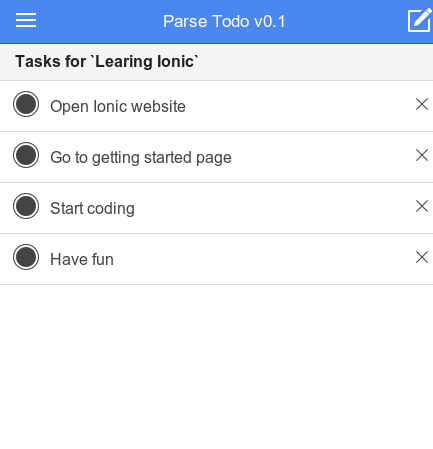
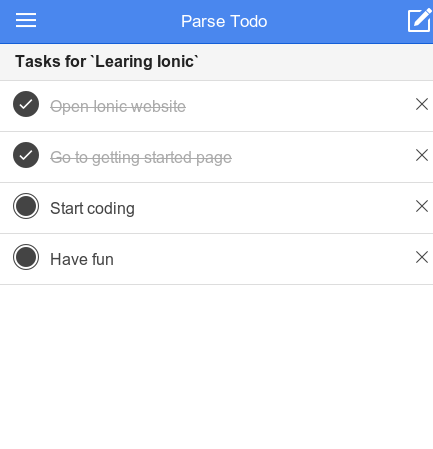
Edit screenshots

diff --git a/www/index.html b/www/index.html
@@ -33,7 +33,7 @@
       <button class="button button-icon ion-navicon" ng-click="toggleProjects()"></button>
       <!-- <button class="button button-icon" ng-class="{'ion-ios7-refresh-empty': !syncing, 'ion-loading-c': syncing}" ng-click="syncProjects()"></button> -->
 
-      <h1 class="title">Parse Todo v0.1</h1>
+      <h1 class="title">Parse Todo</h1>
 
       <!-- New Task button-->
       <button class="button button-icon ion-compose" ng-click="newTask()" ng-show="activeProject"></button>

diff --git a/www/js/services.js b/www/js/services.js
@@ -1,8 +1,8 @@
 angular.module('services', [])
 
 .factory('TodoService', function(){
-    var parseAppId = 'jeH6Sld5vOzC6WdngapLJ4u5zWMyW62wmaPvPTBW',
-        parseAppKey = 'Idjev7cVQkEFoCHrRrBwv7lSfbnM2QZvjbEdo9Z8';
+    var parseAppId = 'myappid',
+        parseAppKey = 'myappkey';
 
     Parse.initialize(parseAppId, parseAppKey);
 

diff --git a/README.md b/README.md
@@ -38,8 +38,8 @@ $ ionic emulate android
 
 More info on this can be found on the Ionic [Getting Started](http://ionicframework.com/getting-started) page.
 
-Screenshot
-==========
+Screenshots
+===========
 
 ![screen-1.png](https://raw.github.com/ekaputra07/ionic-parse-todo/master/screen-1.png)
 ![screen-2.png](https://raw.github.com/ekaputra07/ionic-parse-todo/master/screen-2.png)
